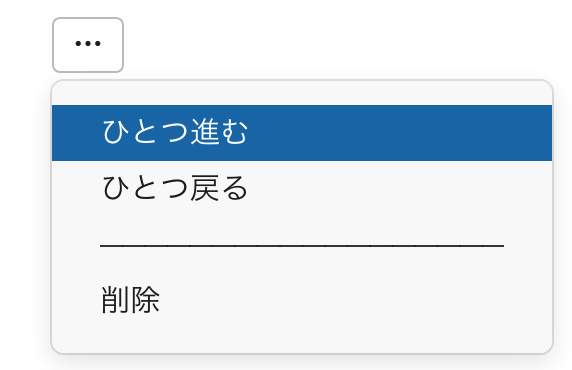
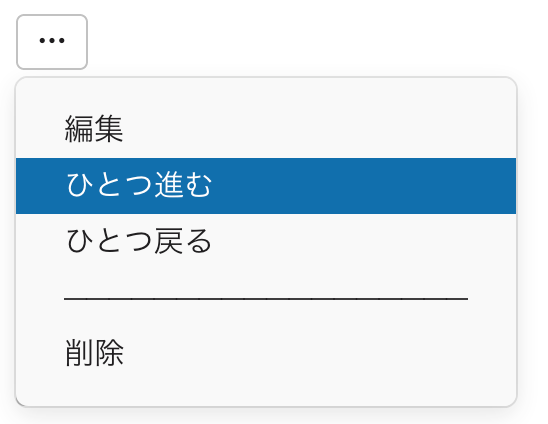
docs: update README.md

diff --git a/README.md b/README.md
@@ -34,14 +34,13 @@
 
 <img src="assets/post-2.png" alt="お知らせ2回目" width="668">
 
-右端の […] メニューから、手動でローテーションを進めたり、戻したりもできます。
+右端の […] メニューから、手動でローテーションを進めたり、戻したりもできます。ローテーションの編集も、ここからできます。
 
-<img src="assets/overflow.png" alt="[…] メニュー" width="286">
+<img src="assets/overflow.png" alt="[…] メニュー" width="212">
 
 ### 補足
 
 - メッセージ部分には [Slack の `mrkdwn` フォーマット](https://api.slack.com/reference/surfaces/formatting#basics)が使えます。作成モーダル上では整形表示されませんが、実際のお知らせではきちんと表示されます。
-- 既存のローテーションの編集は、現状できません。ローテーションを削除して、新しい内容で改めて作成してください。
 - 権限上、Rota はパブリックチャンネルのみで動作します。プライベートチャンネルや DM では利用できません。
 
 ## インストール
